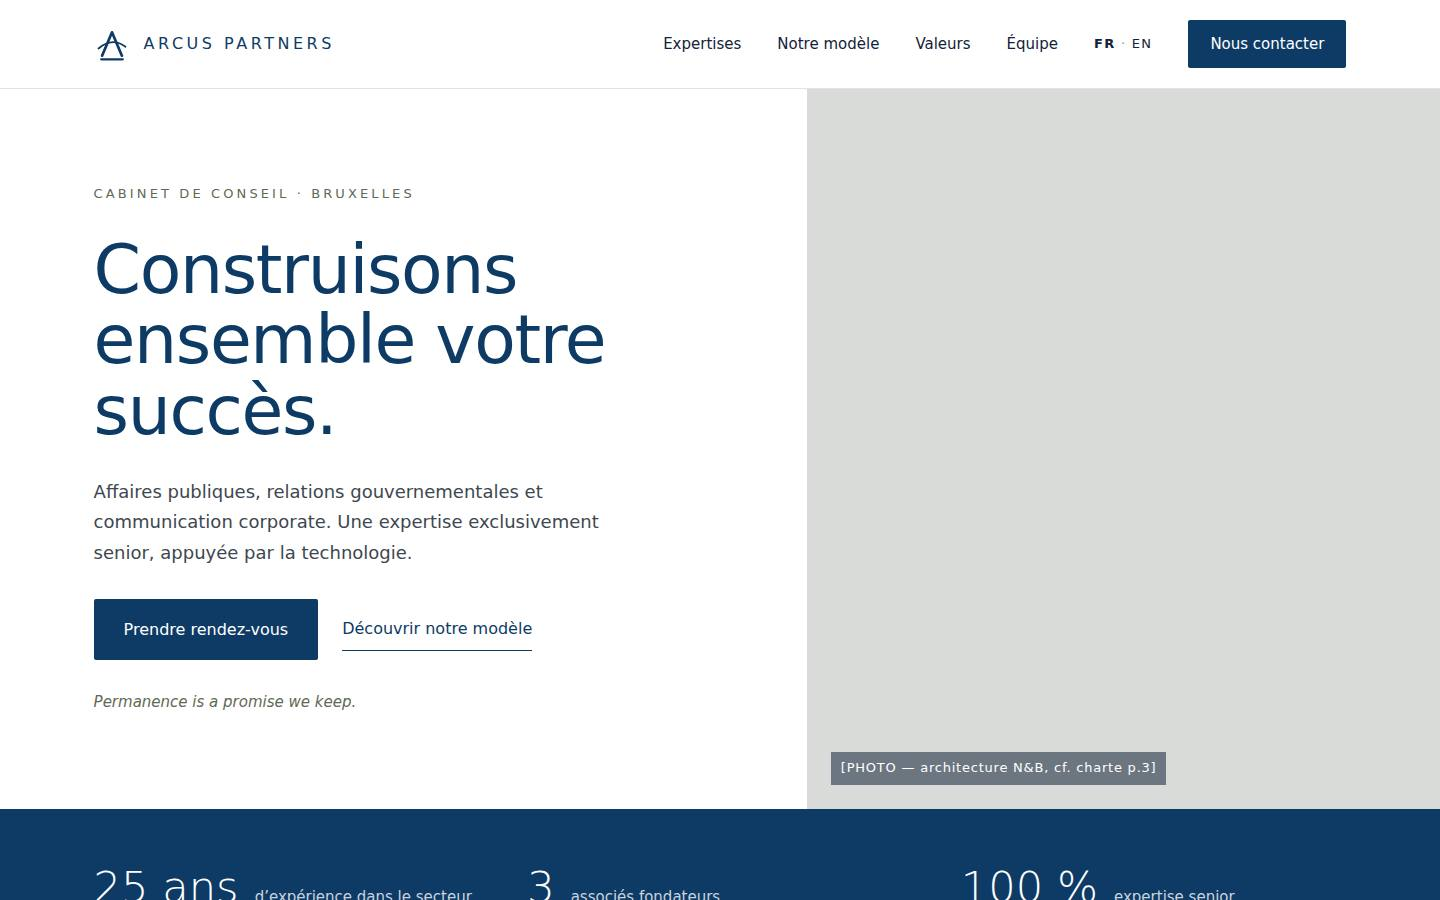
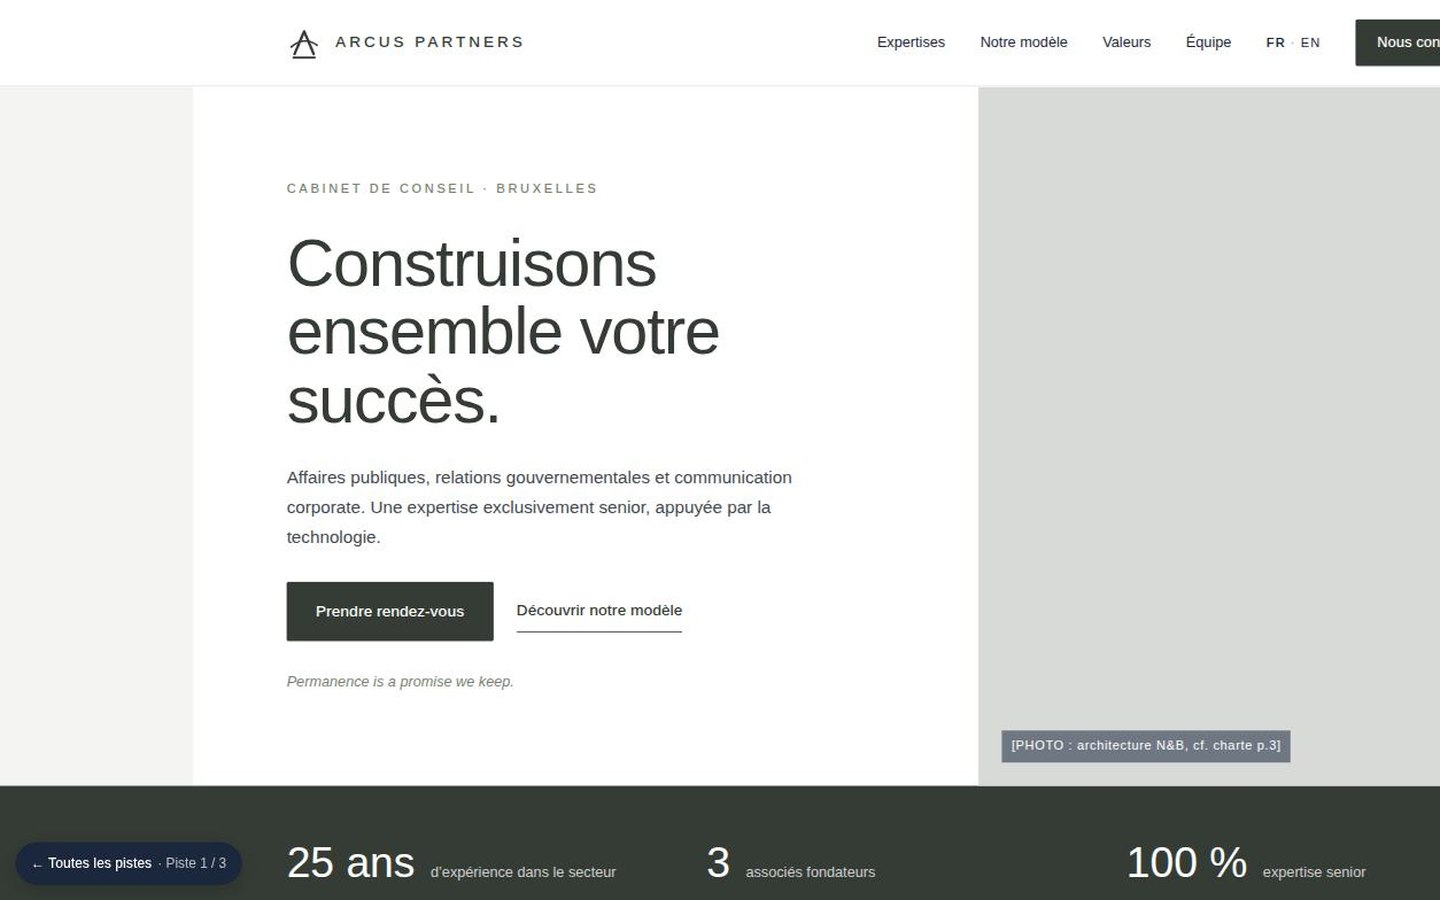
V4 : nouvelle palette (vert fonce + sauge + ardoise) et police Arimo
Remplace le bleu marine par la palette officielle definitive
(charte "Pêche Ta Marque") sur les 3 pistes : vert tres fonce
#323932 dans le role du bleu marine, sauge #76846F en accent,
ardoise #4B5859 en couleur secondaire. Les teintes derivees
(hover, textes clairs sur fond sombre, etc.) sont calculees pour
garder les memes rapports de luminosite que l'ancienne palette.

Police Arimo (Google Fonts) appliquee comme police courante sur
les 3 pistes ; le serif Newsreader de la piste 2 est conserve
pour les titres.

Vignettes de la page d'accueil regenerees pour refleter les
nouvelles couleurs.

La version precedente (bleu marine) reste disponible via le tag
git "v3" pour un retour en arriere facile.

Claude-Session: https://claude.ai/code/session_01GE1E4YgtJhGfgbkhegfAHw

diff --git a/index.html b/index.html
@@ -8,7 +8,7 @@
   <meta name="robots" content="noindex, nofollow">
   <link rel="preconnect" href="https://fonts.googleapis.com">
   <link rel="preconnect" href="https://fonts.gstatic.com" crossorigin>
-  <link href="https://fonts.googleapis.com/css2?family=Hanken+Grotesk:wght@300;400;500;600&display=swap" rel="stylesheet">
+  <link href="https://fonts.googleapis.com/css2?family=Arimo:ital,wght@0,400..700;1,400..700&display=swap" rel="stylesheet">
   <link rel="stylesheet" href="hub.css">
 </head>
 <body>
@@ -27,13 +27,13 @@
     <ul class="tiles">
       <li>
         <a class="tile" href="v1/">
-          <div class="tile-thumb"><img src="thumbs/v1.jpg" alt="Aperçu de la piste 1 : en-tête blanc, grand titre bleu marine, photo à droite" loading="lazy" width="1440" height="900"></div>
+          <div class="tile-thumb"><img src="thumbs/v1.jpg" alt="Aperçu de la piste 1 : en-tête blanc, grand titre vert fonce, photo à droite" loading="lazy" width="1440" height="900"></div>
           <div class="tile-body">
             <p class="tile-num">Piste 1</p>
             <h2>Institutionnelle</h2>
-            <p>Claire et rassurante. Fond blanc, bleu marine dominant, structure en cartes. La plus proche des codes du conseil.</p>
+            <p>Claire et rassurante. Fond blanc, vert foncé dominant, structure en cartes. La plus proche des codes du conseil.</p>
             <ul class="swatches" aria-label="Palette">
-              <li style="--c:#0E3B66" title="Bleu marine"></li><li style="--c:#5F6A55" title="Sauge"></li><li style="--c:#3E4750" title="Anthracite"></li><li style="--c:#F4F4F2" title="Blanc cassé"></li>
+              <li style="--c:#323932" title="Vert fonce"></li><li style="--c:#76846F" title="Sauge"></li><li style="--c:#3E4750" title="Anthracite"></li><li style="--c:#F4F4F2" title="Blanc cassé"></li>
             </ul>
             <p class="tile-tags">Logo concept 2 · Sans-serif · Sobre</p>
             <span class="tile-cta">Voir la maquette <span aria-hidden="true">→</span></span>
@@ -48,7 +48,7 @@
             <h2>Éditoriale</h2>
             <p>Dans l’esprit de Brunswick. Papier chaud, grands titres en serif, beaucoup d’air, sauge en accent. Un ton de magazine d’opinion.</p>
             <ul class="swatches" aria-label="Palette">
-              <li style="--c:#1F2A33" title="Encre"></li><li style="--c:#4A5443" title="Sauge profond"></li><li style="--c:#0E3B66" title="Bleu marine"></li><li style="--c:#F5F3EE" title="Papier"></li>
+              <li style="--c:#323932" title="Encre"></li><li style="--c:#616F5C" title="Sauge profond"></li><li style="--c:#76846F" title="Sauge"></li><li style="--c:#F5F3EE" title="Papier"></li>
             </ul>
             <p class="tile-tags">Logo concept 1 · Serif + sans · Menu plein écran</p>
             <span class="tile-cta">Voir la maquette <span aria-hidden="true">→</span></span>
@@ -57,13 +57,13 @@
       </li>
       <li>
         <a class="tile" href="v3/">
-          <div class="tile-thumb"><img src="thumbs/v3.jpg" alt="Aperçu de la piste 3 : fond indigo sombre, titre centré en gras, arche dessinée en arrière-plan" loading="lazy" width="1440" height="900"></div>
+          <div class="tile-thumb"><img src="thumbs/v3.jpg" alt="Aperçu de la piste 3 : fond vert fonce, titre centré en gras, arche dessinée en arrière-plan" loading="lazy" width="1440" height="900"></div>
           <div class="tile-body">
             <p class="tile-num">Piste 3</p>
             <h2>Immersive</h2>
-            <p>Dans l’esprit d’Apple. Fond indigo, l’arche comme motif graphique, animations discrètes et onglets interactifs. La plus technologique.</p>
+            <p>Dans l’esprit d’Apple. Fond sombre, l’arche comme motif graphique, animations discrètes et onglets interactifs. La plus technologique.</p>
             <ul class="swatches" aria-label="Palette">
-              <li style="--c:#12113A" title="Nuit"></li><li style="--c:#2D2A5E" title="Indigo"></li><li style="--c:#6B7F5E" title="Sauge"></li><li style="--c:#F1F3F0" title="Clair"></li>
+              <li style="--c:#323932" title="Fonce"></li><li style="--c:#4B5859" title="Ardoise"></li><li style="--c:#76846F" title="Sauge"></li><li style="--c:#F1F3F0" title="Clair"></li>
             </ul>
             <p class="tile-tags">Logo concepts 4-6 · Sans-serif gras · Mode sombre</p>
             <span class="tile-cta">Voir la maquette <span aria-hidden="true">→</span></span>

diff --git a/v3/styles.css b/v3/styles.css
@@ -1,15 +1,15 @@
 /* =========================================================
    Arcus Partners - Piste 3 · Immersive
-   Inspiration Apple : fond sombre indigo, l'arche comme motif, sauge en accent
-   Palette des concepts 5/6 de la charte
+   Inspiration Apple : fond sombre, l'arche comme motif, sauge en accent
+   Couleurs issues de la charte (palette definitive, v4)
    ========================================================= */
 
 :root {
-  --night: #12113A;
-  --night-2: #1B1A4D;
-  --indigo: #2D2A5E;
-  --sage: #8FA37F;       /* sauge éclairci : lisible sur fond sombre */
-  --sage-deep: #6B7F5E;
+  --night: #323932;
+  --night-2: #434443;
+  --indigo: #4B5859;
+  --sage: #9AA692;       /* sauge éclairci : lisible sur fond sombre */
+  --sage-deep: #76846F;
   --text: #F2F2F5;
   --text-muted: #B7B8CC;
   --light: #F1F3F0;
@@ -18,7 +18,7 @@
   --line-dark: rgba(255, 255, 255, .12);
   --line-light: #D9DCD6;
 
-  --font: "Manrope", system-ui, -apple-system, "Segoe UI", sans-serif;
+  --font: "Arimo", system-ui, -apple-system, "Segoe UI", sans-serif;
   --gutter: clamp(20px, 5vw, 80px);
   --max: 1320px;
   --section-y: clamp(80px, 11vw, 160px);

diff --git a/v1/styles.css b/v1/styles.css
@@ -1,14 +1,14 @@
 /* =========================================================
    Arcus Partners - preview statique
-   Couleurs issues de la charte (concept 2)
+   Couleurs issues de la charte (palette definitive, v4)
    ========================================================= */
 
 :root {
   /* Couleurs */
-  --navy: #0E3B66;
-  --navy-dark: #0A2A4A;
-  --sage: #5F6A55;        /* sauge assombri (retour client), lisible sur blanc */
-  --sage-light: #9AA290;
+  --navy: #323932;
+  --navy-dark: #232823;
+  --sage: #76846F;
+  --sage-light: #B2B8AE;
   --charcoal: #3E4750;
   --ink: #13223A;
   --grey: #5B6268;
@@ -16,10 +16,10 @@
   --off-white: #F4F4F2;
   --white: #FFFFFF;
   --placeholder: #D9DBD8;
-  --on-navy: #C9D3DE;
+  --on-navy: #CFCFCF;
 
   /* Typo */
-  --font: "Hanken Grotesk", system-ui, -apple-system, "Segoe UI", sans-serif;
+  --font: "Arimo", system-ui, -apple-system, "Segoe UI", sans-serif;
 
   /* Espacements */
   --gutter: clamp(20px, 6.5vw, 96px);

diff --git a/v2/styles.css b/v2/styles.css
@@ -1,22 +1,23 @@
 /* =========================================================
    Arcus Partners - Piste 2 · Éditoriale
    Inspiration Brunswick : papier chaud, serif de titrage, beaucoup d'air
+   Couleurs issues de la charte (palette definitive, v4)
    ========================================================= */
 
 :root {
   --paper: #F5F3EE;
   --paper-2: #ECE9E1;
-  --ink: #1F2A33;
+  --ink: #323932;
   --charcoal: #3E4750;
   --muted: #5E6660;
-  --sage: #5F6A55;
-  --sage-deep: #4A5443;
-  --navy: #0E3B66;
+  --sage: #76846F;
+  --sage-deep: #616F5C;
+  --navy: #323932;
   --line: #D4D0C6;
   --placeholder: #D8D5CC;
 
   --serif: "Newsreader", "Iowan Old Style", Georgia, serif;
-  --sans: "Hanken Grotesk", system-ui, -apple-system, "Segoe UI", sans-serif;
+  --sans: "Arimo", system-ui, -apple-system, "Segoe UI", sans-serif;
 
   --gutter: clamp(20px, 5vw, 80px);
   --max: 1360px;

diff --git a/v2/index.html b/v2/index.html
@@ -7,7 +7,7 @@
   <meta name="robots" content="noindex">
   <link rel="preconnect" href="https://fonts.googleapis.com">
   <link rel="preconnect" href="https://fonts.gstatic.com" crossorigin>
-  <link href="https://fonts.googleapis.com/css2?family=Newsreader:ital,opsz,wght@0,6..72,300;0,6..72,400;1,6..72,300;1,6..72,400&family=Hanken+Grotesk:wght@400;500;600&display=swap" rel="stylesheet">
+  <link href="https://fonts.googleapis.com/css2?family=Newsreader:ital,opsz,wght@0,6..72,300;0,6..72,400;1,6..72,300;1,6..72,400&family=Arimo:ital,wght@0,400..700;1,400..700&display=swap" rel="stylesheet">
   <link rel="stylesheet" href="styles.css">
   <script src="script.js" defer></script>
 </head>

diff --git a/hub.css b/hub.css
@@ -4,15 +4,15 @@
   --card: #FFFFFF;
   --ink: #13223A;
   --muted: #5B6268;
-  --navy: #0E3B66;
-  --sage: #5F6A55;
+  --navy: #323932;
+  --sage: #76846F;
   --line: #E0E1DD;
   --gutter: clamp(20px, 5vw, 64px);
 }
 *, *::before, *::after { box-sizing: border-box; }
 body {
   margin: 0; background: var(--bg); color: var(--ink);
-  font-family: "Hanken Grotesk", system-ui, -apple-system, "Segoe UI", sans-serif;
+  font-family: "Arimo", system-ui, -apple-system, "Segoe UI", sans-serif;
   font-size: 16px; line-height: 1.6; -webkit-font-smoothing: antialiased;
 }
 h1, h2, p { margin: 0; }

diff --git a/v1/index.html b/v1/index.html
@@ -8,7 +8,7 @@
   <meta name="robots" content="noindex"><!-- preview : à retirer en production -->
   <link rel="preconnect" href="https://fonts.googleapis.com">
   <link rel="preconnect" href="https://fonts.gstatic.com" crossorigin>
-  <link href="https://fonts.googleapis.com/css2?family=Hanken+Grotesk:wght@300;400;500;600&display=swap" rel="stylesheet">
+  <link href="https://fonts.googleapis.com/css2?family=Arimo:ital,wght@0,400..700;1,400..700&display=swap" rel="stylesheet">
   <link rel="stylesheet" href="styles.css">
   <script src="script.js" defer></script>
 </head>

diff --git a/v3/index.html b/v3/index.html
@@ -7,7 +7,7 @@
   <meta name="robots" content="noindex">
   <link rel="preconnect" href="https://fonts.googleapis.com">
   <link rel="preconnect" href="https://fonts.gstatic.com" crossorigin>
-  <link href="https://fonts.googleapis.com/css2?family=Manrope:wght@300;400;500;600;700&display=swap" rel="stylesheet">
+  <link href="https://fonts.googleapis.com/css2?family=Arimo:ital,wght@0,400..700;1,400..700&display=swap" rel="stylesheet">
   <link rel="stylesheet" href="styles.css">
   <script src="script.js" defer></script>
 </head>
